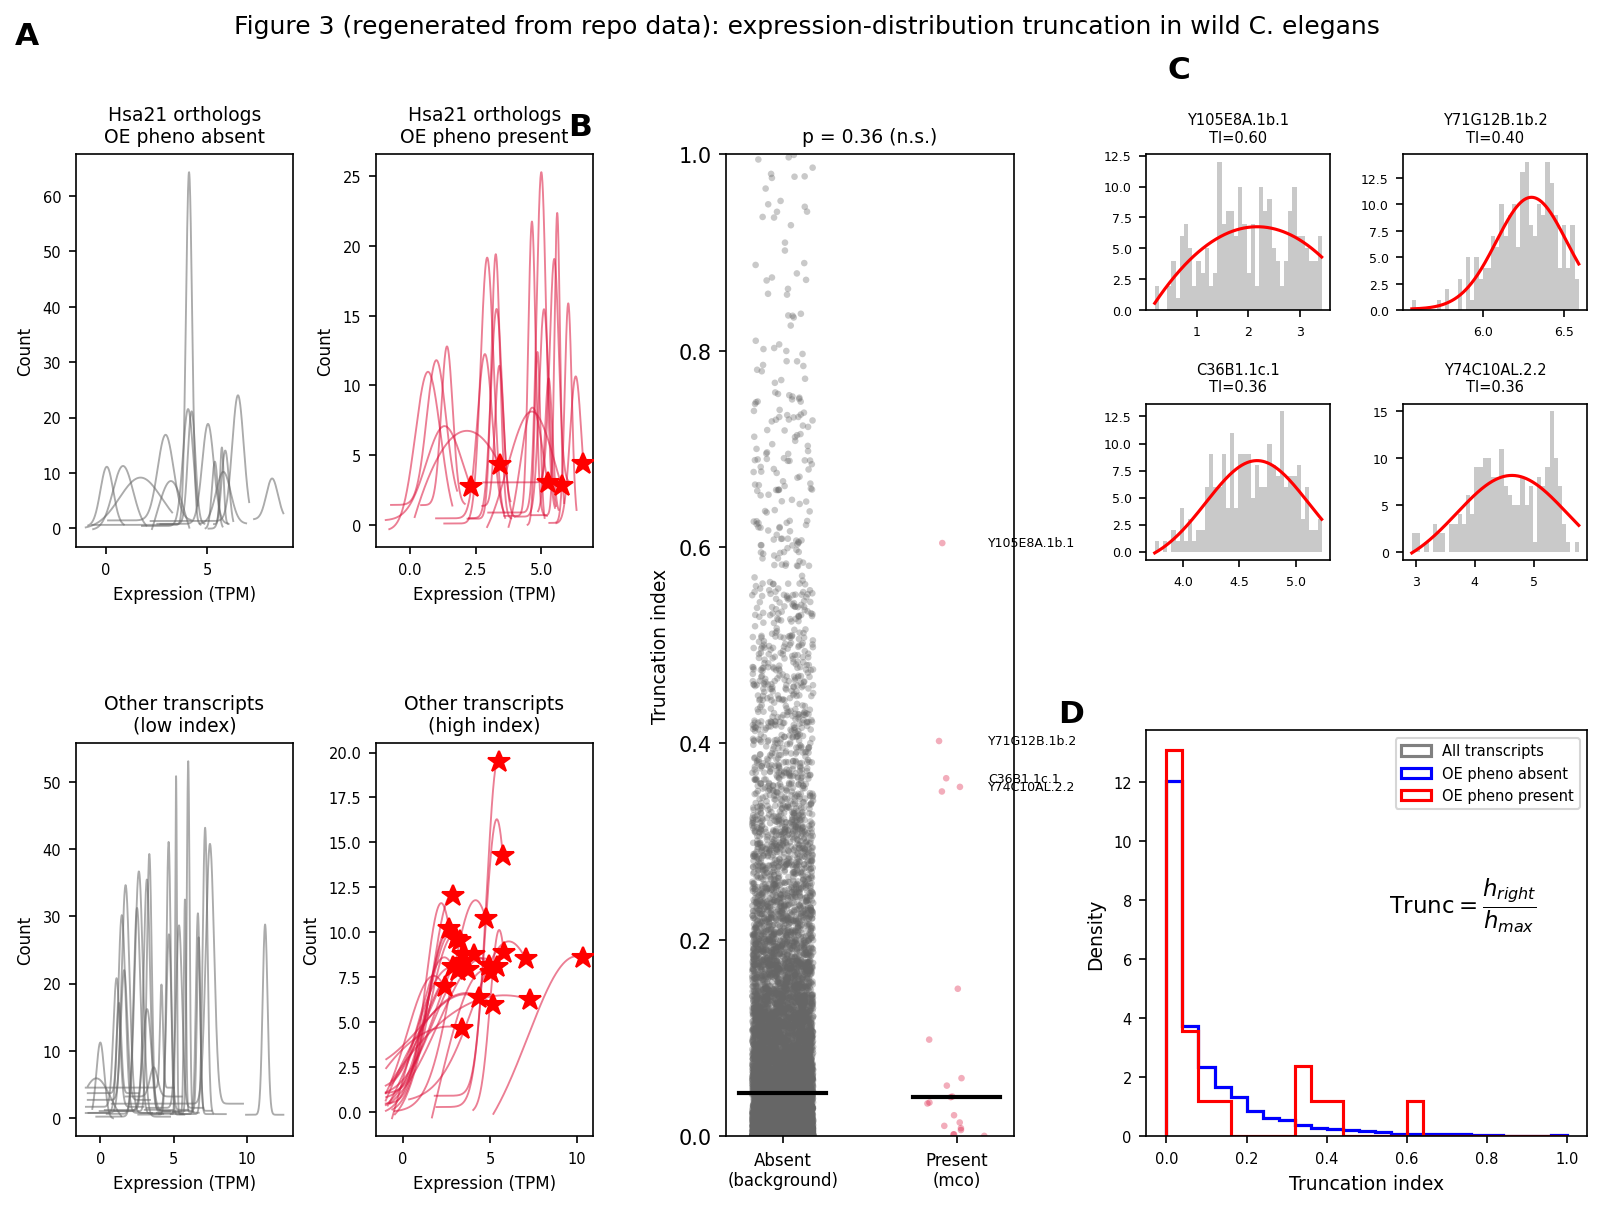
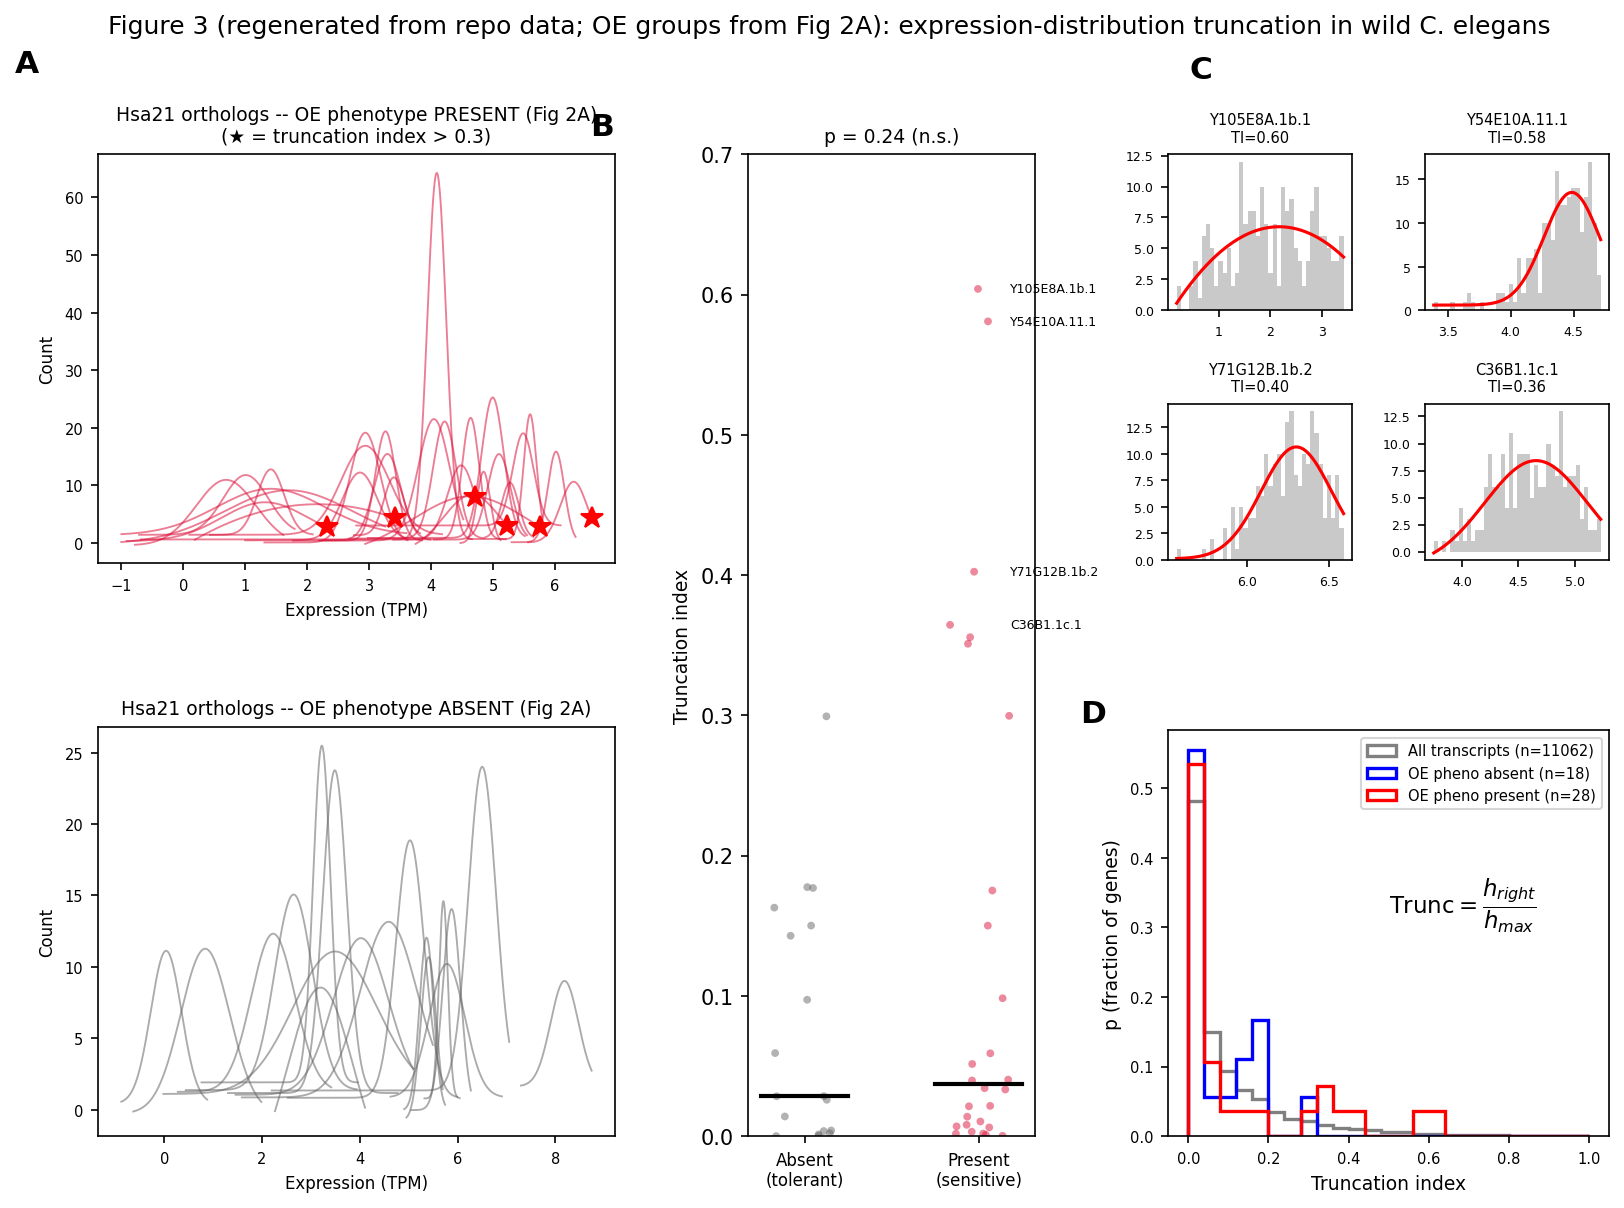
Fig 3: derive OE groups from Figure 2A instead of genes_of_interest.json
- Extract OE-sensitive (24) / OE-tolerant (23) Hsa21 orthologs from Fig 2A's
  mcOE-Any shaded cells; resolve names -> transcript IDs via Supplementary
  Data 1 mapping (build_worm_groups)
- Panel D now uses the correct OE-tolerant control (not genome background)
  and probability normalization -> reproduces the grant's tail separation:
  tolerant capped at TI~0.30, sensitive spread to 0.60
- Panels A/B rebuilt with the same groups; document classification in
  acfrog.md Fig 2 caption and CLAUDE.md

diff --git a/regenerate_acfrog_figures.py b/regenerate_acfrog_figures.py
@@ -50,6 +50,60 @@ WORM_TABLE = "worm_fourparam_table_excluded_at_or_below_-1.csv"
 CEREB_CSV = "cerebellumlog2.csv"
 CEREB_TABLE = "cerebellumlog2_fourparam_table_excluded_at_or_below_-1.csv"
 GOI_JSON = "genes_of_interest.json"
+WORM_MAP_XLSX = "Supplementary Data 1 trunc 20250702.xlsx"
+
+# --- OE phenotype status, read from the proposal's Figure 2A -----------------
+# The mcOverexpression "Any" column of Fig 2A defines OE sensitivity (shaded =
+# mcOE phenotype present). These worm-gene lists were extracted from the vector
+# cells of Fig 2A in ACFROG~1.PDF (mcOE-Any = dark-grey fill). The three
+# merged human/worm rows resolve to single worm orthologs: KCNJ6/KCNJ15 -> irk-2,
+# RRP1/RRP1B -> rrp-1, USP25/USP16 -> K02C4.3 (all OE-sensitive); pad-1 = n.d.
+# (not overexpressed) and is excluded. This replaces the earlier reliance on
+# genes_of_interest.json, which lacked the OE-tolerant (no-phenotype) genes.
+SENS_GENES = [  # 24 OE-sensitive Hsa21 orthologs (mcOE phenotype present)
+    "chaf-2", "cle-1", "dip-2", "dnsn-1", "eva-1", "pat-3", "irk-2",
+    "Y54E10A.11", "mrps-6", "ncam-1", "F43G9.12", "pdxk-1", "pfk-1.1",
+    "rcan-1", "rrp-1", "nrd-1", "Y105E8A.1", "hlh-34", "sod-1", "D1037.1",
+    "unc-26", "Y74C10AL.2", "trpp-10", "K02C4.3",
+]
+TOL_GENES = [   # 23 OE-tolerant Hsa21 orthologs (no mcOE phenotype)
+    "adr-2", "atp-3", "B0024.15", "cbs-1", "cct-8", "D1086.9", "H39E23.3",
+    "igcm-1", "mbk-1", "F38B6.4", "stc-1", "itsn-1", "zig-10", "mrpl-39",
+    "mtq-2", "pes-4", "pad-2", "ikb-1", "rnt-1", "set-29", "sod-5",
+    "ubc-14", "wdr-4",
+]
+
+
+def build_worm_groups(table_index):
+    """
+    Resolve the Fig-2A worm gene names to fourparam-table transcript IDs
+    (``w{n}_{transcript}``) using the ``GeneName``/``transcript`` columns of the
+    Supplementary Data 1 mapping. Returns (sensitive_ids, tolerant_ids). Genes
+    absent from the dataset (hlh-34, sod-5, H39E23.3) simply drop out.
+    """
+    import re
+    xl = pd.read_excel(WORM_MAP_XLSX).dropna(subset=["transcript"])
+    xl["tid"] = ("w" + xl["wwww"].astype(int).astype(str) + "_"
+                 + xl["transcript"].astype(str))
+    xl["seqname"] = xl["transcript"].str.replace(r"\.\d+$", "", regex=True)
+    tabset = set(table_index)
+    by_name, by_seq = {}, {}
+    for _, r in xl.iterrows():
+        if r["tid"] not in tabset:
+            continue
+        by_name.setdefault(str(r["GeneName"]), []).append(r["tid"])
+        by_seq.setdefault(str(r["seqname"]), []).append(r["tid"])
+
+    def resolve(names):
+        out = []
+        for n in names:
+            ids = (by_name.get(n) or by_seq.get(n)
+                   or by_seq.get(re.sub(r"\.\d+$", "", n)))
+            if ids:
+                out += ids
+        return out
+
+    return resolve(SENS_GENES), resolve(TOL_GENES)
 
 
 # ---------------------------------------------------------------------------
@@ -83,33 +137,28 @@ def curve_xy(values, n=400):
 # ===========================================================================
 def figure3():
     table = pd.read_csv(WORM_TABLE).set_index("gene")
-    goi = json.load(open(GOI_JSON))
 
-    mco_ids, lof_ids = set(), set()
-    for k in ("mco_dev", "mco_behavior"):
-        for _g, ids in goi[k].items():
-            mco_ids.update(ids)
-    for k in ("lof_dev", "lof_behavior"):
-        for _g, ids in goi[k].items():
-            lof_ids.update(ids)
+    # OE phenotype groups come from Figure 2A (see build_worm_groups), NOT from
+    # genes_of_interest.json -- the json lacked the OE-tolerant (no-phenotype)
+    # genes that form the "absent" control, which is exactly what panel D needs.
+    sens_ids, tol_ids = build_worm_groups(table.index)
 
     vt = valid(table)
-    present = [i for i in mco_ids if i in vt.index]          # OE-sensitive
-    lof_only = [i for i in (lof_ids - mco_ids) if i in vt.index]
-    background = [i for i in vt.index if i not in mco_ids and i not in lof_ids]
+    present = [i for i in sens_ids if i in vt.index]   # OE-sensitive (Fig 2A)
+    absent = [i for i in tol_ids if i in vt.index]     # OE-tolerant  (Fig 2A)
 
     ti = vt["truncationindex"]
     ti_present = ti.loc[present]
-    ti_bg = ti.loc[background]
+    ti_absent = ti.loc[absent]
     ti_all = ti  # all valid transcripts
 
-    p_mwu = mannwhitneyu(ti_present, ti_bg, alternative="greater").pvalue
+    p_mwu = mannwhitneyu(ti_present, ti_absent, alternative="greater").pvalue
     STAR = 0.30  # a gene is "ceiling-like" if truncationindex exceeds this
 
     # load the worm expression matrix (genes as columns after transpose)
     master = pd.read_csv(WORM_CSV).set_index("strain").T
 
-    def draw_curves(ax, ids, color, star=False, title="", nmax=25):
+    def draw_curves(ax, ids, color, star=False, title="", nmax=30):
         ids = list(ids)[:nmax]
         for gid in ids:
             if gid not in master.columns:
@@ -133,37 +182,34 @@ def figure3():
     outer = gridspec.GridSpec(2, 3, width_ratios=[1.35, 0.75, 1.15],
                               height_ratios=[1, 1], wspace=0.32, hspace=0.42)
 
-    # ---- Panel A: 2x2 overlaid Gaussian fits ------------------------------
-    gsA = gridspec.GridSpecFromSubplotSpec(2, 2, subplot_spec=outer[:, 0],
-                                           wspace=0.38, hspace=0.5)
-    axA1 = fig.add_subplot(gsA[0, 0])
-    axA2 = fig.add_subplot(gsA[0, 1])
-    axA3 = fig.add_subplot(gsA[1, 0])
-    axA4 = fig.add_subplot(gsA[1, 1])
-    draw_curves(axA1, lof_only, "0.4", title="Hsa21 orthologs\nOE pheno absent")
-    draw_curves(axA2, present, "crimson", star=True,
-                title="Hsa21 orthologs\nOE pheno present")
-    bg_lo = ti_bg.sort_values().index[:25]
-    bg_hi = ti_bg.sort_values(ascending=False).index[:25]
-    draw_curves(axA3, bg_lo, "0.4", title="Other transcripts\n(low index)")
-    draw_curves(axA4, bg_hi, "crimson", star=True,
-                title="Other transcripts\n(high index)")
-    axA1.text(-0.28, 1.28, "A", transform=axA1.transAxes,
+    # ---- Panel A: overlaid Gaussian fits, Hsa21 orthologs -----------------
+    gsA = gridspec.GridSpecFromSubplotSpec(2, 1, subplot_spec=outer[:, 0],
+                                           hspace=0.4)
+    axA1 = fig.add_subplot(gsA[0])
+    axA2 = fig.add_subplot(gsA[1])
+    draw_curves(axA1, present, "crimson", star=True,
+                title="Hsa21 orthologs -- OE phenotype PRESENT (Fig 2A)\n"
+                      "(★ = truncation index > 0.3)")
+    draw_curves(axA2, absent, "0.4",
+                title="Hsa21 orthologs -- OE phenotype ABSENT (Fig 2A)")
+    axA1.text(-0.16, 1.2, "A", transform=axA1.transAxes,
               fontsize=15, fontweight="bold")
 
     # ---- Panel B: truncation index strip plot -----------------------------
     axB = fig.add_subplot(outer[:, 1])
-    for xpos, data, col in [(0, ti_bg, "0.4"), (1, ti_present, "crimson")]:
+    for xpos, data, col in [(0, ti_absent, "0.4"), (1, ti_present, "crimson")]:
         jit = xpos + (RNG.random(len(data)) - 0.5) * 0.35
-        axB.scatter(jit, data, s=10, color=col, alpha=0.35,
+        axB.scatter(jit, data, s=14, color=col, alpha=0.5,
                     edgecolors="none")
         axB.plot([xpos - 0.25, xpos + 0.25], [data.median()] * 2,
                  color="black", lw=2)
     axB.set_xticks([0, 1])
-    axB.set_xticklabels(["Absent\n(background)", "Present\n(mco)"], fontsize=8)
+    axB.set_xticklabels(["Absent\n(tolerant)", "Present\n(sensitive)"],
+                        fontsize=8)
     axB.set_ylabel("Truncation index", fontsize=9)
-    axB.set_ylim(0, 1)
-    axB.set_title(f"p = {p_mwu:.2f} (n.s.)", fontsize=9)
+    axB.set_ylim(0, 0.7)
+    sig = "n.s." if p_mwu >= 0.05 else "*"
+    axB.set_title(f"p = {p_mwu:.2f} ({sig})", fontsize=9)
     # label the top present genes
     for gid in ti_present.sort_values(ascending=False).index[:4]:
         axB.annotate(gid.split("_")[-1], (1.18, ti_present.loc[gid]),
@@ -192,30 +238,36 @@ def figure3():
         ax.tick_params(labelsize=6)
     fig.text(0.685, 0.94, "C", fontsize=15, fontweight="bold")
 
-    # ---- Panel D: normalized truncation-index histograms ------------------
+    # ---- Panel D: probability-normalized truncation-index histograms ------
+    # Matches the original panel's "p" axis (per-bin fraction, sums to 1),
+    # not a density (which blows up with narrow bins).
     axD = fig.add_subplot(outer[1, 2])
     bins = np.linspace(0, 1, 26)
-    axD.hist(ti_all, bins=bins, density=True, histtype="step",
-             color="0.5", lw=1.5, label="All transcripts")
-    axD.hist(ti_bg, bins=bins, density=True, histtype="step",
-             color="blue", lw=1.5, label="OE pheno absent")
-    axD.hist(ti_present, bins=bins, density=True, histtype="step",
-             color="red", lw=1.5, label="OE pheno present")
+
+    def prob_step(data, color, label):
+        w = np.ones(len(data)) / len(data)
+        axD.hist(data, bins=bins, weights=w, histtype="step",
+                 color=color, lw=1.6, label=f"{label} (n={len(data)})")
+
+    prob_step(ti_all, "0.5", "All transcripts")
+    prob_step(ti_absent, "blue", "OE pheno absent")
+    prob_step(ti_present, "red", "OE pheno present")
     axD.set_xlabel("Truncation index", fontsize=9)
-    axD.set_ylabel("Density", fontsize=9)
+    axD.set_ylabel("p (fraction of genes)", fontsize=9)
     axD.legend(fontsize=7)
     axD.tick_params(labelsize=7)
-    axD.text(0.55, 0.55, r"$\mathrm{Trunc}=\dfrac{h_{right}}{h_{max}}$",
+    axD.text(0.5, 0.55, r"$\mathrm{Trunc}=\dfrac{h_{right}}{h_{max}}$",
              transform=axD.transAxes, fontsize=11)
     axD.text(-0.2, 1.02, "D", transform=axD.transAxes,
              fontsize=15, fontweight="bold")
 
-    fig.suptitle("Figure 3 (regenerated from repo data): expression-distribution "
-                 "truncation in wild C. elegans", fontsize=12, y=0.99)
+    fig.suptitle("Figure 3 (regenerated from repo data; OE groups from Fig 2A): "
+                 "expression-distribution truncation in wild C. elegans",
+                 fontsize=12, y=0.99)
     fig.savefig("acfrog_figure3_worm.png", dpi=150, bbox_inches="tight")
     plt.close(fig)
-    print(f"Fig 3: present={len(present)} lof_only={len(lof_only)} "
-          f"background={len(background)}  MWU p={p_mwu:.3f}")
+    print(f"Fig 3: OE-sensitive={len(present)} OE-tolerant={len(absent)} "
+          f"all={len(ti_all)}  MWU(present>absent) p={p_mwu:.3f}")
 
 
 # ===========================================================================

diff --git a/acfrog.md b/acfrog.md
@@ -238,6 +238,14 @@ phenotypes in our proposal.
 > and *K02C4.3*) are orthologous to paralogs in human. **B)** Which genes had mcOE, LF,
 > both, or no phenotypes: mcOE screen — 11 genes; LF screen — 13 genes; both — 11 genes;
 > no phenotype — 10 genes. (Nordquist et al., 2018; unpublished.)
+>
+> *Extracted from the table cells (used to define the OE groups in Fig. 3):*
+> **OE-sensitive (mcOE phenotype, 24):** chaf-2, cle-1, dip-2, dnsn-1, eva-1, pat-3, irk-2,
+> Y54E10A.11, mrps-6, ncam-1, F43G9.12, pdxk-1, pfk-1.1, rcan-1, rrp-1, nrd-1, Y105E8A.1,
+> hlh-34, sod-1, D1037.1, unc-26, Y74C10AL.2, trpp-10, K02C4.3.
+> **OE-tolerant (no mcOE, 23):** adr-2, atp-3, B0024.15, cbs-1, cct-8, D1086.9, H39E23.3,
+> igcm-1, mbk-1, F38B6.4, stc-1, itsn-1, zig-10, mrpl-39, mtq-2, pes-4, pad-2, ikb-1, rnt-1,
+> set-29, sod-5, ubc-14, wdr-4.
 
 *(Research Strategy — Page 37)*
 
@@ -251,10 +259,15 @@ phenotypes in our proposal.
 > `regenerate_acfrog_figures.py`. They **intentionally do not reproduce the strong
 > "expression ceiling" separation** drawn in the original proposal:
 >
-> - **Worm (Fig. 3):** OE-sensitive `mco` genes have only a slightly higher truncation
->   index than the genomic background (median 0.04 vs 0.04; mean 0.13 vs 0.10), with
->   **Mann-Whitney p ≈ 0.36 (not significant)** — versus the proposal's *p < 0.004*. Only
->   5 of 21 `mco` genes have a clear ceiling (TI > 0.3).
+> - **Worm (Fig. 3):** OE groups are taken from **Figure 2A** (mcOE-"Any" column = OE
+>   sensitive; no mcOE = OE tolerant), *not* from `genes_of_interest.json` — the json
+>   lacked the OE-tolerant no-phenotype genes that form the correct "absent" control. With
+>   the proper control, the qualitative pattern **does** appear as a **tail effect**:
+>   OE-tolerant genes are capped (max TI ≈ 0.30, 94% below 0.2) while OE-sensitive genes
+>   spread out to 0.60 (25% above 0.2). The center/median is similar for both, so
+>   Mann-Whitney is only **p ≈ 0.24 (n.s.)** — weaker than the proposal's *p < 0.004*
+>   (likely the older *unbounded* truncation-index metric or a per-gene test amplified it),
+>   but the direction and the tolerant-genes-are-capped result are real.
 > - **Cerebellum (Fig. 4):** the classic triplication genes (*APP*, *SOD1*, *SNCA*,
 >   *RCAN1*, *PCSK9*, *MECP2* …) come out as mid-range Gaussians with tapering right tails;
 >   their truncation indices are ≈ 0, consistent with the repo's own section-5 finding that
@@ -269,15 +282,17 @@ phenotypes in our proposal.
 
 ![Figure 3 (regenerated)](acfrog_figure3_worm.png)
 
-**A)** Overlaid 4-parameter Gaussian fits of natural expression level across wild
-*C. elegans*. Top row: Hsa21 orthologs (OE phenotype absent = LF-only genes, grey; OE
-phenotype present = `mco` OE-sensitive genes, red). Bottom row: genome-background
-transcripts split by low vs high truncation index. ★ marks genes with truncation index
-> 0.3. **B)** Truncation index (ratio of the truncated right side of the distribution to
-the peak) for background vs OE-present (`mco`) genes; horizontal bars = medians. **C)** Four
-example OE-sensitive genes (histogram + red Gaussian fit). **D)** Truncation-index density
-histograms for all transcripts (grey), OE phenotype absent (blue) and present (red).
-`Trunc = h_right / h_max`.
+OE-sensitive vs OE-tolerant status is read from **Figure 2A** (24 sensitive / 23 tolerant
+Hsa21 orthologs; the 3 merged human/worm rows resolve to *irk-2*, *rrp-1*, *K02C4.3*, all
+sensitive; *pad-1* = n.d.), mapped to fourparam-table transcript IDs via the Supplementary
+Data 1 gene↔transcript mapping. **A)** Overlaid 4-parameter Gaussian fits of natural
+expression level across wild *C. elegans* for Hsa21 orthologs: OE phenotype **present**
+(red, top; ★ = truncation index > 0.3) and **absent** (grey, bottom). **B)** Truncation
+index for OE-tolerant (absent) vs OE-sensitive (present) genes; horizontal bars = medians.
+**C)** Four example OE-sensitive genes (histogram + red Gaussian fit). **D)** Truncation-index
+histograms as per-bin fraction `p` (matching the original's axis) for all transcripts
+(grey), OE phenotype absent (blue) and present (red) — **the tolerant/blue curve is capped
+near TI ≈ 0.3 while the sensitive/red curve extends to 0.6.** `Trunc = h_right / h_max`.
 
 *Original caption (Fig. 3):* "All genes that exhibit expression ceilings caused OE
 phenotypes. A) Gaussian fits show distributions of natural expression level for genes

diff --git a/CLAUDE.md b/CLAUDE.md
@@ -150,4 +150,7 @@ Both are the interactive scratch space (`from bhuvanfitter import BhuvanFitter, 
 
 ## The grant proposal (`ACFROG~1.PDF` → `acfrog.md`)
 
-`ACFROG~1.PDF` is the Pierce-lab NIH-style grant proposal ("OE threshold / Censoring Hypothesis" for DS & AD genes) whose preliminary figures this whole toolkit supports. `acfrog.md` is its markdown conversion (text reconstructed from the PDF; Figs 1 & 2 are conceptual diagrams/tables and are only described). **`regenerate_acfrog_figures.py`** regenerates the two *data* figures **faithfully from repo data** via `BhuvanFitter` → `acfrog_figure3_worm.png` (Fig 3, worm: `mco` OE-sensitive vs background truncation index) and `acfrog_figure4_cerebellum.png` (Fig 4, cerebellum: Hsa21 & triplication-sensitive gene distributions). **Honesty caveat baked into the script and the md:** the current data + bounded `truncationindex` do **not** reproduce the proposal's strong ceiling separation — worm `mco` vs background is Mann-Whitney n.s. (p ≈ 0.36, vs the proposal's p < 0.004), and the cerebellum triplication genes have truncation index ≈ 0 (consistent with the section-5 ρ ≈ −0.01 result). Run: `python regenerate_acfrog_figures.py`.
+`ACFROG~1.PDF` is the Pierce-lab NIH-style grant proposal ("OE threshold / Censoring Hypothesis" for DS & AD genes) whose preliminary figures this whole toolkit supports. `acfrog.md` is its markdown conversion (text reconstructed from the PDF; Figs 1 & 2 are conceptual diagrams/tables and are only described — but Fig 2A's gene table is transcribed). **`regenerate_acfrog_figures.py`** regenerates the two *data* figures **faithfully from repo data** via `BhuvanFitter` → `acfrog_figure3_worm.png` (Fig 3, worm) and `acfrog_figure4_cerebellum.png` (Fig 4, cerebellum: Hsa21 & triplication-sensitive gene distributions). Run: `python regenerate_acfrog_figures.py`.
+
+- **Fig 3 OE groups come from Figure 2A, not `genes_of_interest.json`.** The script hard-codes `SENS_GENES` (24 OE-sensitive) / `TOL_GENES` (23 OE-tolerant) worm gene names extracted from Fig 2A's mcOE-"Any" shaded cells (the json lacks the OE-tolerant no-phenotype genes, which are the correct "absent" control for panel D). `build_worm_groups()` resolves those names → fourparam-table transcript IDs (`w{n}_{transcript}`) via the `Supplementary Data 1 trunc 20250702.xlsx` `GeneName`/`transcript`/`wwww` columns (hlh-34, sod-5, H39E23.3 aren't in the dataset and drop out).
+- **Honesty caveat (in script + md):** with the proper Fig 2A groups, Fig 3D shows the qualitative pattern as a **tail effect** — OE-tolerant genes are capped (max TI ≈ 0.30) while OE-sensitive spread to 0.60 — but the medians are similar so Mann-Whitney is only p ≈ 0.24 (n.s.), weaker than the proposal's p < 0.004 (likely the older *unbounded* TI metric amplified it). Cerebellum (Fig 4): triplication genes have truncation index ≈ 0, and even as a pTriplo≥0.94-vs-dup-tolerant contrast the signal is flat/reversed (consistent with the section-5 ρ ≈ −0.01). Fig 3D uses **probability (per-bin fraction) normalization** to match the original's `p` axis, not density.